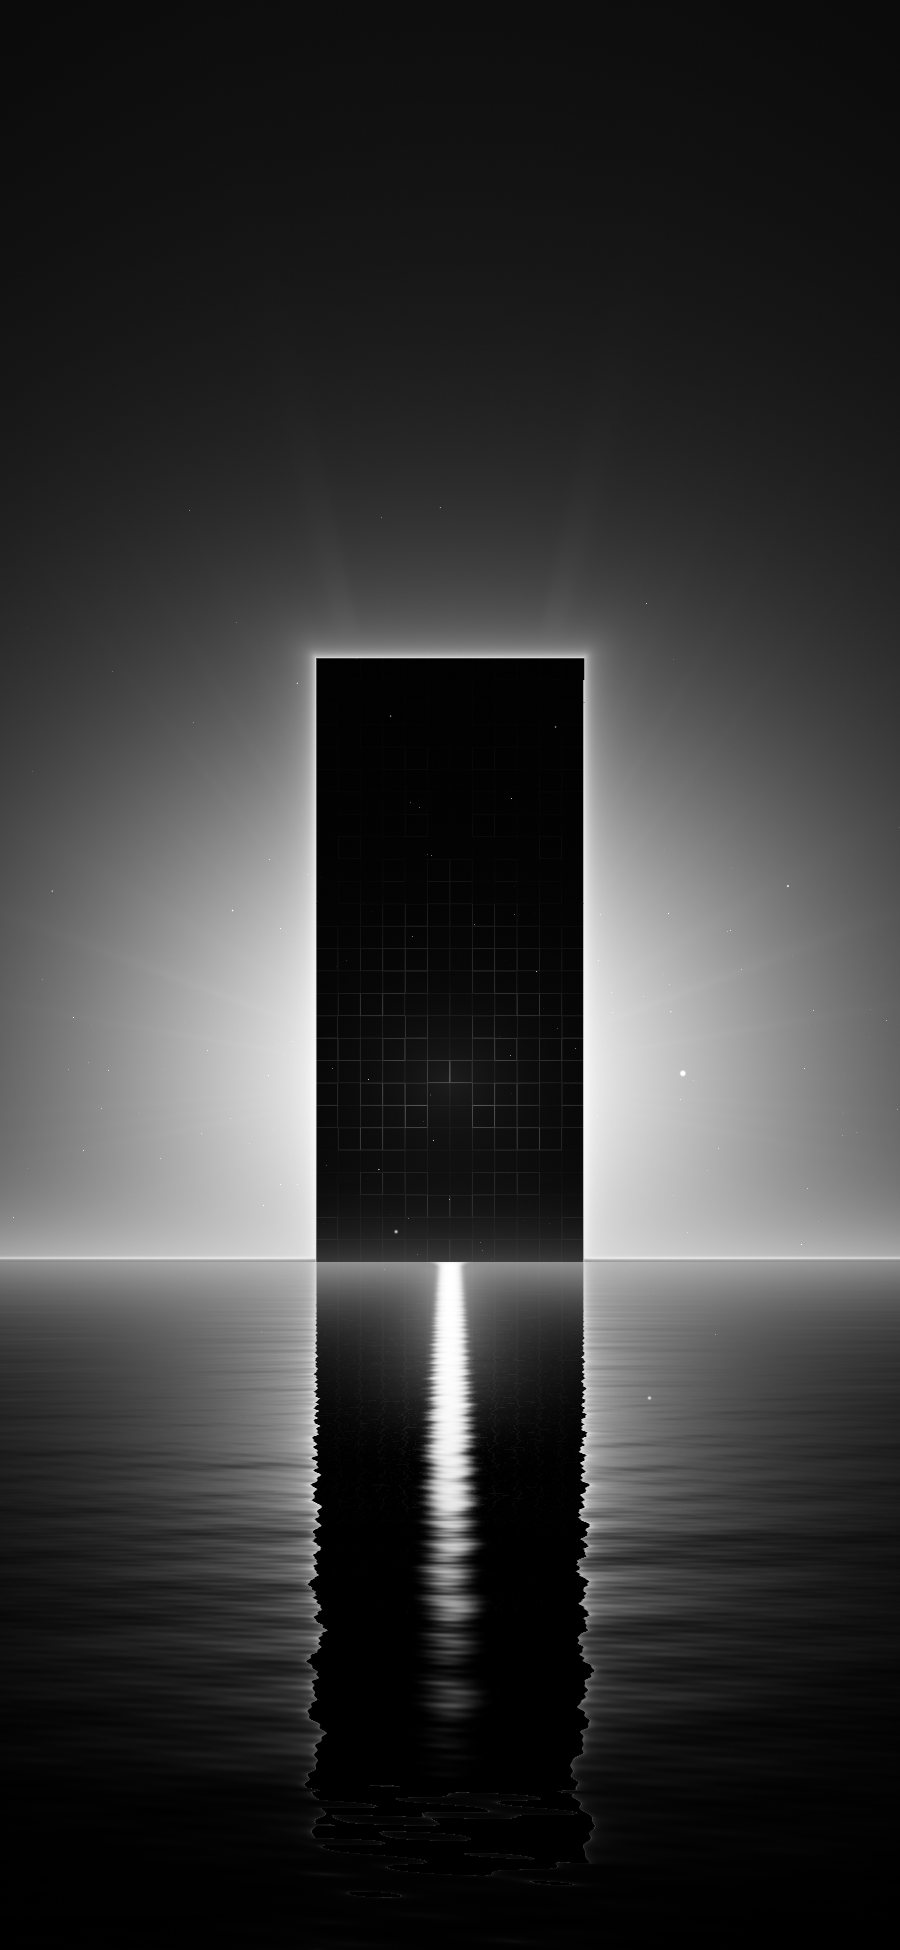
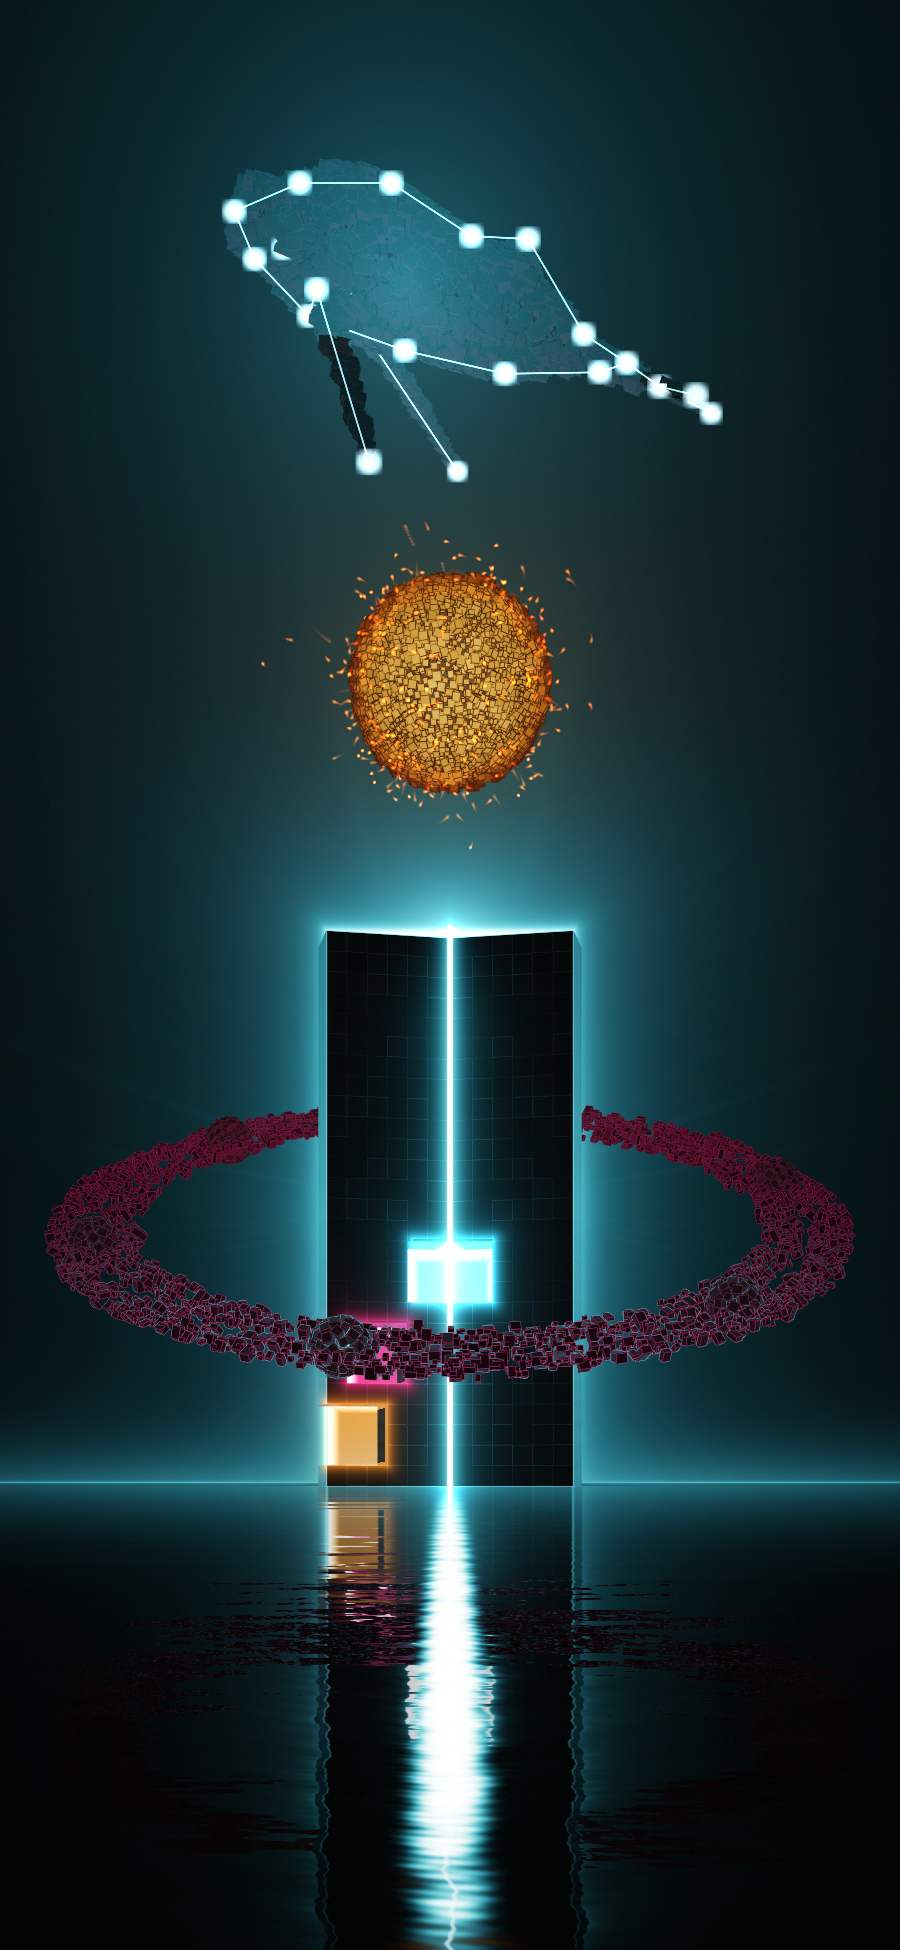
零肉身造物 v3（施工中）：七幕静态图兜底、键盘和读屏、竖屏排版、星座轮廓
- 没有 WebGL：七幕各一张场景自己截的静态图（电脑 1600×1000、手机 900×1950，scripts/genesis-stills.mjs 出）
- 看不见的幕只是透明、不接点击，照样能 Tab 到；Tab 到哪一幕的「进去」页面滚到哪一幕，Tab 到小月的名字滚到它转到正面那一刻
- section 只撑高度不接点击（右边刻度点得到了）
- 星座：沿鲸的轮廓（背、肚子、尾鳍、胸鳍、眼）亮星连线；钉成星座时身子是直的、侧身对人
- 竖屏：第四幕天更高（星座横在太阳上头），全家福往上挪，收工的字收紧；往下滑的提示放到那句话下面
- 地平线在门脚不再单独打亮（不和门缝拼成十字）；第七幕最后白光收暗到字看得清

Claude-Session: https://claude.ai/code/session_01KCV9xsxKjTEQuqVZM6Rweh

diff --git a/_zero/src/genesis/creations/whale.ts b/_zero/src/genesis/creations/whale.ts
@@ -21,12 +21,20 @@ function spot(portrait: boolean, halfW: number) {
   return { K: new Vector3(-Math.min(400, Math.max(300, halfW * 0.8)), 330, ZG + 40), dir: new Vector3(-0.88, 0.47, 0).normalize() };
 }
 
-// 关节（亮成星点的地方）：part、a、b、c（跟着色器里 whalePoint 的参数一样）
+// 关节（亮成星点的地方）：沿着鲸的轮廓（背一条、肚子一条、尾鳍、胸鳍、眼睛），从头到尾一颗一颗亮
+// 每颗：part、a、b、c（跟着色器里 whalePoint 的参数一样）
 const J: [number, number, number, number][] = [
-  [0, 0.0, 0, 1], [0, 0.14, 0, 0], [0, 0.42, 0, 0], [5, 0.64, 1, 0], [0, 0.9, 0, 0], [3, 0, 0, 0], [3, 1, 0, 0], [4, 1, 0, 0],
-  [0, 0.07, Math.PI, 0], [0, 0.42, Math.PI, 0], [1, 0, 0, 0], [1, 1, 0, 0], [2, 0, 0, 0], [2, 1, 0, 0], [0, 0.1, Math.PI / 2 + 0.35, 0],
+  [0, 0.0, 0, 1], [0, 0.12, 0.2, 0], [0, 0.32, 0, 0], [0, 0.52, 0, 0], [5, 0.64, 1, 0], [0, 0.82, 0, 0], [0, 0.93, 0, 0],
+  [3, 0, 0, 0], [3, 1, 0, 0], [4, 1, 0, 0],
+  [0, 0.07, Math.PI, 0], [0, 0.22, Math.PI, 0], [0, 0.45, Math.PI, 0], [0, 0.68, Math.PI, 0], [0, 0.88, Math.PI, 0],
+  [2, 0, 0, 0], [2, 1, 0, 0], [1, 0, 0, 0], [1, 1, 0, 0], [0, 0.1, Math.PI / 2 + 0.35, 0],
 ];
-const LINES: [number, number][] = [[0, 1], [1, 2], [2, 3], [3, 4], [4, 5], [5, 6], [5, 7], [0, 8], [8, 9], [9, 4], [10, 11], [12, 13], [8, 10], [8, 12]];
+const ORDER = [0, 1, 10, 19, 2, 11, 15, 17, 16, 18, 3, 12, 4, 13, 5, 14, 6, 7, 8, 9];
+const LINES: [number, number][] = [
+  [0, 1], [1, 2], [2, 3], [3, 4], [4, 5], [5, 6], [6, 7],
+  [0, 10], [10, 11], [11, 12], [12, 13], [13, 14], [14, 6],
+  [7, 8], [7, 9], [15, 16], [17, 18], [11, 15], [11, 17],
+];
 
 function bez(a: Vector3, b: Vector3, c: Vector3, d: Vector3, t: number, out = new Vector3()) {
   const s = 1 - t;
@@ -81,21 +89,21 @@ export function buildWhale(shared: U, stone: U) {
     uFront: { value: GATE.Z },
     uStar: { value: 0 },
     uLines: { value: 0 },
-    uJ: { value: Array.from({ length: 16 }, (_, i) => new Vector4(...(J[i] ?? [0, 0, 0, 0]))) },
+    uJ: { value: Array.from({ length: 24 }, (_, i) => new Vector4(...(J[i] ?? [0, 0, 0, 0]))) },
   };
   const mat = stoneMaterial(shared, stone, WHALE_FN + WHALE_PLACE, u);
   const body = blockMesh(mat, { aW: { data: W, size: 4 }, aSeed: { data: S, size: 4 } }, N);
 
   // 星点
   const sj = new Float32Array(J.length * 4), si = new Float32Array(J.length);
-  J.forEach((j, i) => { sj.set(j, i * 4); si[i] = i / J.length; });
+  J.forEach((j, i) => { sj.set(j, i * 4); si[i] = ORDER.indexOf(i) / J.length; });
   const smat = pointMaterial(shared, WHALE_FN + WHALE_STARS, { ...u, uPxScale: shared.uPxScale });
   const stars = pointCloud(smat, { aJ: { data: sj, size: 4 }, aIdx: { data: si, size: 1 } }, J.length);
-  stars.renderOrder = 6;
+  stars.renderOrder = 8;
   // 星座的线
   const lmat = lineMaterial(shared, WHALE_FN + WHALE_LINE, WHALE_LINE_COL, { ...u, uWidth: { value: 1.2 } });
   const lines = lineMesh(lmat, LINES.map(([a, b], i) => [a, 0, 0, i / LINES.length, b, 0, 0, 0]));
-  lines.renderOrder = 6;
+  lines.renderOrder = 8;
 
   const K = new Vector3(), dir = new Vector3(), B1 = new Vector3(), B2 = new Vector3(), F = new Vector3();
   const pivot = new Vector3(), moved = new Vector3(), tmp = new Vector3();
@@ -149,7 +157,7 @@ export function buildWhale(shared: U, stone: U) {
       u.uRoll.value = -0.5 * pin;
       u.uSwimT.value = f.reduced ? 0 : f.time;
       u.uGhost.value = sstep(0.86, 0.95, uu);
-      u.uStar.value = seg(uu, 0.85, 0.94);
+      u.uStar.value = seg(uu, 0.85, 0.93) * 1.12;
       u.uLines.value = seg(uu, 0.9, 0.98);
       // 造好以后退到半暗；第六幕被轨道接住时一起亮
       const dim = lerp(1, 0.38, sstep(1.02, 1.2, uu));

diff --git a/_zero/src/home/genesis-page.ts b/_zero/src/home/genesis-page.ts
@@ -5,7 +5,7 @@ import * as snd from './sound';
 import type { Genesis } from '../genesis/scene';
 import type { Tier } from '../genesis/config';
 import { FF_MS, INTRO_MS, SECTION_HEX, SMOOTH, ACT_HEX, NAME_AT } from '../genesis/config';
-import { clamp, easeInOut, horizonAt, pOfScroll, scrollOfP, seg, sstep, tanHalfAt, camDist } from '../genesis/timeline';
+import { clamp, easeInOut, horizonAt, pOfScroll, scrollOfP, seg, sstep, tanHalfAt, camDist, moonAt } from '../genesis/timeline';
 
 const root = document.documentElement;
 const gx = document.querySelector<HTMLElement>('[data-gx]')!;
@@ -120,7 +120,7 @@ function updateDom(p: number, s: number, pi: number) {
   const heroOut = 1 - sstep(0.02, 0.2, freeze != null ? (p > 1 ? 1 : 0) : s);
   const ho = heroIn * heroOut;
   setv(hero, '--hero', ho);
-  setv(hero, '--hero-v', ho > 0.002 ? 'visible' : 'hidden');
+  setv(hero, '--hero-pe', ho > 0.5 ? 'auto' : 'none');
   // 开场那两行代码
   setv(intro, "--intro-o", p < 1 ? sstep(0, 0.02, p) * (1 - sstep(0.34, 0.46, p)) : 0);
   setv(intro, '--c1', seg(p, 0.02, 0.12));
@@ -131,7 +131,6 @@ function updateDom(p: number, s: number, pi: number) {
     const k = i + 2, u = p - (k - 1);
     const o = sstep(0.04, 0.07, u) * (1 - sstep(1.0, 1.05, u));
     setv(el, '--o', o);
-    setv(el, '--v', o > 0.002 ? 'visible' : 'hidden');
     setv(el, '--cw', seg(u, 0.06, 0.18));
     setv(el, '--caret', u > 0.05 && u < 0.32 ? 1 : 0);
     const na = NAME_AT[k];
@@ -144,7 +143,6 @@ function updateDom(p: number, s: number, pi: number) {
   const u7 = p - 6;
   const fo = sstep(0.04, 0.08, u7);
   setv(fin, '--fo', fo);
-  setv(fin, '--fv', fo > 0.002 ? 'visible' : 'hidden');
   setv(fin, '--fc', seg(u7, 0.06, 0.1));
   setv(fin, '--fw', seg(u7, 0.86, 0.95));
   const fm = sstep(0.93, 1, u7);
@@ -209,7 +207,11 @@ goLinks.forEach((a) => {
   // 键盘：Tab 到这一幕的「进去」，页面跟着滚到这一幕
   a.addEventListener('focus', () => { if (currentAct(P) !== k) jump(k, false); });
 });
-moons.forEach((m) => m.addEventListener('focus', () => { if (currentAct(P) !== 3) jump(3, false); }));
+// Tab 到第 j 颗小月的名字：滚到它转到正面的那一刻（名字正好亮着）
+moons.forEach((m, j) => m.addEventListener('focus', () => {
+  const target = 2 + moonAt(j, moons.length);
+  if (Math.abs(P - target) > 0.02) window.scrollTo({ top: Math.round(scrollOfP(target) * vh), behavior: 'auto' });
+}));
 fin.querySelectorAll('a').forEach((a) => a.addEventListener('focus', () => { if (currentAct(P) !== 7) jump(7, false); }));
 entries.forEach((a) => a.addEventListener('focus', () => { if (P > 1.2) jump(1, false); }));
 
@@ -310,6 +312,14 @@ async function boot() {
   dpr: () => scene?.dpr ?? 0,
   setP: (x: number | null) => { freeze = x; },
   act: () => currentAct(P),
+  // 验收截图：「进去」的镜头停在半路（不跳转）
+  fly: (kind: 'gate' | 'creation', k: number, hold = 0.6) => {
+    const sc = scene as unknown as { enter?: (kind: string, k: number, onP: (s: number) => void, hold: number) => Promise<void> } | null;
+    gx.classList.add('entering');
+    const hex = kind === 'gate' ? SECTION_HEX[k] : SECTION_HEX[k - 2];
+    flood.style.setProperty('--flood', hex);
+    sc?.enter?.(kind, k, (s) => { flood.style.opacity = String(sstep(0.7, 1, s)); }, hold);
+  },
 };
 
 root.style.setProperty('--act-col', ACT_HEX[0]);

diff --git a/_zero/src/genesis/creations/ring.ts b/_zero/src/genesis/creations/ring.ts
@@ -1,7 +1,7 @@
 // Ⅲ 布环：环和六颗小月。小月从 src/data/tools.ts 的 shop 读，有几样工具就有几颗。
 import { Vector3 } from 'three';
 import { COUNTS, GATE, SECTION_HEX, TIERS, hexToLinear, type Tier } from '../config';
-import { sstep, seg, lerp } from '../timeline';
+import { sstep, seg, lerp, moonAt as moonAtTL } from '../timeline';
 import { RING_FN, RING_PLACE, MOON_PLACE } from '../glsl/ring';
 import { blockMesh, stoneMaterial, type Creation, type Frame, type U } from '../kit';
 import { rng, shuffle } from '../layout';
@@ -17,7 +17,7 @@ const TH0 = Math.PI / 12;
 const STEP = (Math.PI * 2) / n;
 const TH_MAX = TH0 + (n - 1) * STEP + TH0;
 /** 第 j 颗小月转到正面时，第三幕走到哪了 */
-export const moonAt = (j: number) => 0.46 + 0.49 * ((TH0 + j * STEP) / TH_MAX);
+export const moonAt = (j: number) => moonAtTL(j, n);
 const moonPh = (j: number) => FRONT - TH0 - j * STEP;
 
 function norm(c: [number, number, number]) { const m = Math.max(...c); return c.map((v) => v / m) as [number, number, number]; }
@@ -46,6 +46,7 @@ export function buildRing(shared: U, stone: U) {
     uTilt: { value: RING.tilt },
     uRingYaw: { value: 0 },
     uRingScale: { value: [1, 1] },
+    uRingS: { value: 1 },
     uMoonR: { value: RING.moonR },
     uFlash: { value: new Array(MAXM).fill(0) },
     uMoonPh: { value: Array.from({ length: MAXM }, (_, j) => moonPh(j)) },
@@ -77,6 +78,7 @@ export function buildRing(shared: U, stone: U) {
   /** 环上一点（跟着色器里 ringPoint 一样算） */
   function ringPoint(ph: number, rho: number, h: number, out: Vector3) {
     const sc = u.uRingScale.value as number[];
+    const S = u.uRingS.value as number;
     let x = Math.cos(ph) * rho, y = h, z = Math.sin(ph) * rho;
     // rotX(tilt)：前低后高
     const ct = Math.cos(RING.tilt), st = Math.sin(RING.tilt);
@@ -86,7 +88,7 @@ export function buildRing(shared: U, stone: U) {
     const yaw = u.uRingYaw.value as number;
     const cy = Math.cos(yaw), sy = Math.sin(yaw);
     const x3 = x * cy + z * sy, z3 = -x * sy + z * cy;
-    out.set(x3 * sc[0], y, z3 * sc[1]).add(u.uRingC.value as Vector3);
+    out.set(x3 * sc[0] * S, y * S, z3 * sc[1] * S).add(u.uRingC.value as Vector3);
     return out;
   }
 
@@ -119,9 +121,8 @@ export function buildRing(shared: U, stone: U) {
       if (pw > 0) {
         portraitPos(1, P, f.portrait, RING.c, tmp);
         (u.uRingC.value as Vector3).copy(tmp);
-        const sc = lerp(1, PORTRAIT_SCALE[1], pw) * (f.portrait ? 0.8 : 1);
-        u.uRingScale.value = [sc, sc];
       } else (u.uRingC.value as Vector3).copy(RING.c);
+      u.uRingS.value = lerp(1, PORTRAIT_SCALE[1], pw);
       const dim = lerp(1, 0.32, sstep(1.02, 1.22, uu));
       const bright = lerp(dim, 1, sstep(5.38, 5.52, P));
       u.uBright.value = bright;

diff --git a/_zero/src/genesis/glsl/whale.ts b/_zero/src/genesis/glsl/whale.ts
@@ -52,6 +52,11 @@ vec3 moved(vec3 p) {
   q = rotY(uMoveYaw) * q * uMoveS;
   return uPivot + uMoveT + q;
 }
+// 星和线往镜头那边挪出鲸的身子（石头身子挡不住星座；门照样挡得住）
+vec3 outFront(vec3 p) {
+  vec3 cam = uMirror < 0. ? vec3(uCamPos.x, -uCamPos.y, uCamPos.z) : uCamPos;
+  return p + normalize(cam - p) * .14 * uWL * uMoveS;
+}
 
 // 身子上第 s 截（0 头 … 1 尾）的位置和朝向
 void bodyFrame(float s, out vec3 pos, out vec3 F, out vec3 U, out vec3 Sd) {
@@ -144,7 +149,7 @@ bool place(inout vec3 c, inout vec3 s, inout mat3 R, inout vec4 m, inout vec3 ti
   ex = vec2(-1., aSeed.z);
   tint = uLifeCol;
   float fresh = 1. - sat((arc - 133.5) / 90.);
-  m = vec4((.2 + 1.2 * fresh) * (1. - .8 * uGhost), .002 + .25 * fresh, 1.5 * (1. - .6 * uGhost), uBright * (1. - .5 * uGhost));
+  m = vec4((.2 + 1.2 * fresh) * (1. - .55 * uGhost), .002 + .25 * fresh + .03 * uGhost, 1.5 * (1. - .5 * uGhost), uBright);
   vBev = .5;
   return true;
 }
@@ -161,7 +166,7 @@ bool placePt(inout vec3 p, inout float size, inout vec3 col, inout float soft) {
   float on = sat((uStar - aIdx) * 14.);
   if (on <= 0.) return false;
   vec3 nrm;
-  p = moved(whalePoint(aJ.x, aJ.y, aJ.z, aJ.w, uSwimT, nrm));
+  p = outFront(moved(whalePoint(aJ.x, aJ.y, aJ.z, aJ.w, uSwimT, nrm)));
   float pop = 1. + 1.6 * (1. - on) * on * 4.;
   size = 10. * pop * uMoveS;
   col = glowCol(3.2 * on * uBright, mix(uLifeCol, vec3(1.), .5));
@@ -172,15 +177,15 @@ bool placePt(inout vec3 p, inout float size, inout vec3 col, inout float soft) {
 
 /** 星座的线：星点之间拉出细线（每段两头是第几颗星：uJ 里查它长在鲸身上哪儿） */
 export const WHALE_LINE = /* glsl */ `
-uniform vec4 uJ[16];
+uniform vec4 uJ[24];
 uniform float uLines;     // 线拉到哪了（0..1）
 void placeLine(inout vec3 a, inout vec3 b, inout float sa, inout float sb) {
   int i = int(a.x + .5), j = int(b.x + .5);
   float order = sa;
   vec4 A = uJ[i], B = uJ[j];
   vec3 n1, n2;
-  vec3 pa = moved(whalePoint(A.x, A.y, A.z, A.w, uSwimT, n1));
-  vec3 pb = moved(whalePoint(B.x, B.y, B.z, B.w, uSwimT, n2));
+  vec3 pa = outFront(moved(whalePoint(A.x, A.y, A.z, A.w, uSwimT, n1)));
+  vec3 pb = outFront(moved(whalePoint(B.x, B.y, B.z, B.w, uSwimT, n2)));
   float k = sat((uLines - order * .6) / .4);
   a = pa;
   b = mix(pa, pb, max(k, 1e-3));

diff --git a/_zero/src/genesis/glsl/ring.ts b/_zero/src/genesis/glsl/ring.ts
@@ -6,14 +6,15 @@ export const RING_FN = /* glsl */ `
 uniform vec3 uRingC;      // 环心
 uniform float uTilt;      // 环面倾角（前低后高）
 uniform float uRingYaw;   // 第六幕：环被接住以后慢慢偏转
-uniform vec2 uRingScale;  // 竖屏：环收窄一点（x 方向）
+uniform vec2 uRingScale;  // 竖屏：环收窄一点（x、z 方向）
+uniform float uRingS;     // 第七幕全家福：整个环缩小
 vec3 ringPoint(float ph, float rho, float h) {
   vec3 p = vec3(cos(ph) * rho, h, sin(ph) * rho);
   p = rotX(uTilt) * p;
   p = rotY(uRingYaw) * p;
   p.x *= uRingScale.x;
   p.z *= uRingScale.y;
-  return uRingC + p;
+  return uRingC + p * uRingS;
 }
 vec3 ringTangent(float ph) {
   vec3 t = vec3(-sin(ph), 0., cos(ph));
@@ -43,7 +44,7 @@ bool place(inout vec3 c, inout vec3 s, inout mat3 R, inout vec4 m, inout vec3 ti
   if (u < e - FALL) return false;
   float rho = aRing.y, hh = aRing.z;
   vec3 tang;
-  float sz = uSize * mix(.55, 1.25, aSeed.x * aSeed.x) * uRingScale.x;
+  float sz = uSize * mix(.55, 1.25, aSeed.x * aSeed.x) * uRingS;
   s = vec3(sz * mix(.8, 1.6, aSeed.y), sz * mix(.5, .9, aSeed.z), sz);
   float moving = 0.;
   if (u < e) {
@@ -100,10 +101,10 @@ bool place(inout vec3 c, inout vec3 s, inout mat3 R, inout vec4 m, inout vec3 ti
   float k = sstep(arrive, arrive + .08, u);
   vec3 cen = ringPoint(FRONT + min(V_FLOW * max(u - (arrive - .05), 0.), D) + uRot, 193., 0.);
   vec3 dir = normalize(aMoon.yzw);
-  float r = uMoonR * mix(2.2, 1., k) * uRingScale.x;
+  float r = uMoonR * mix(2.2, 1., k) * uRingS;
   c = cen + dir * r * mix(.6 + .8 * aSeed.x, 1., k);
   R = lookDir(dir) * rotZ(aSeed.y * 6.);
-  float sz = uMoonR * .42 * mix(.7, 1.1, aSeed.z) * uRingScale.x;
+  float sz = uMoonR * .42 * mix(.7, 1.1, aSeed.z) * uRingS;
   s = vec3(sz);
   ex = vec2(-1., aSeed.w);
   tint = mix(uRingCol, vec3(1.), .15);

diff --git a/_zero/src/genesis/scene.ts b/_zero/src/genesis/scene.ts
@@ -82,6 +82,7 @@ export function createGenesis(opts: GenesisOpts) {
     uGridCol: { value: new Vector3(...ACT_COLS[5]) },
     uShock: { value: new Vector4() },
     uSrcBack: { value: SRC_BACK },
+    uSrcI: { value: 1 },
   };
   const worldMat = new ShaderMaterial({
     uniforms: { ...U, ...S, ...W },
@@ -181,6 +182,11 @@ export function createGenesis(opts: GenesisOpts) {
     const bw = Math.round(w * dpr), bh = Math.round(h * dpr);
     W.uRes.value = [bw, bh];
     px.uView.value = [bw, bh];
+    // 细线按屏幕像素算宽：系统缩放 125–175% 时也是同样粗细，不断
+    scene.traverse((o) => {
+      const m = (o as Mesh).material as ShaderMaterial | undefined;
+      if (m && m.uniforms && m.uniforms.uWidth) m.uniforms.uWidth.value = (m.userData.w ?? (m.userData.w = m.uniforms.uWidth.value)) * Math.max(1, dpr * 0.85);
+    });
     const rs = tier === 'high' ? 0.5 : 0.4;
     rt.setSize(Math.max(2, Math.round(bw * rs)), Math.max(2, Math.round(bh * rs)));
     U.uPortrait.value = portrait ? 1 : 0;
@@ -326,6 +332,7 @@ export function createGenesis(opts: GenesisOpts) {
     // —— Ⅶ 收工：两扇门完全推开，五种颜色收回来合成白光；日、环、鲸、器全成了白光里的剪影；白光再慢慢收暗 ——
     U.uWhite.value = sstep(6.6, 6.82, P) * (1 - sstep(6.86, 7, P));
     U.uSil.value = sstep(6.56, 6.8, P);
+    W.uSrcI.value = 1 - 0.86 * sstep(6.86, 7, P);
 
     // —— 门上的五撮：哪一幕开始，哪一撮松动、离开，留下一个透光的缺口（缺口里是那一幕的颜色） ——
     const rects = windowRects(door);

diff --git a/_zero/src/genesis/glsl/world.ts b/_zero/src/genesis/glsl/world.ts
@@ -31,6 +31,7 @@ uniform float uGrid;         // 第六幕：水上浮出的光格网
 uniform vec3 uGridCol;
 uniform vec4 uShock;         // 第五幕冲击波：中心 x、中心 z、半径、强度
 uniform float uSrcBack;
+uniform float uSrcI;         // 门后光源本身多亮（第七幕最后白光收暗时一起暗）
 varying vec2 vNdc;
 
 // 方向决定的天：头顶几乎全黑，地平线那一圈略亮，正前方（门那边）再亮一点
@@ -88,7 +89,7 @@ vec3 gateLight(vec3 ro, vec3 rd, out float inside) {
     }
     vec3 c = mix(uActCol, wc, wmask);
     float L = mix(core, wl, wmask);
-    vec3 src = glowCol(L * uLight, c) + uWhite * vec3(6.);
+    vec3 src = (glowCol(L * uLight, c) + uWhite * vec3(6.)) * uSrcI;
     // 贴着轮廓那一两个像素别给它（多重采样时会从边上漏出一条亮线）
     return mix(outside, src, smoothstep(.5, 1.8, -d0));
   }

diff --git a/_zero/src/genesis/creations/law.ts b/_zero/src/genesis/creations/law.ts
@@ -59,7 +59,7 @@ export function portraitPos(i: number, P: number, portrait: boolean, cur: Vector
   const z = GATE.Z + 12;
   const spots = portrait
     ? [new Vector3(-19, 90, z), new Vector3(0, 68, z), new Vector3(0, 114, z), new Vector3(19, 90, z)]
-    : [new Vector3(-27, 45, z), new Vector3(0, 22, z), new Vector3(0, 70, z), new Vector3(27, 45, z)];
+    : [new Vector3(-23, 51, z), new Vector3(0, 33, z), new Vector3(0, 73, z), new Vector3(23, 51, z)];
   // 先往上、往门洞那边收，再落到自己的位置（不从镜头前面横穿过去）
   const p = spots[i];
   const mid = new Vector3().lerpVectors(cur, p, 0.5);

diff --git a/_zero/src/genesis/timeline.ts b/_zero/src/genesis/timeline.ts
@@ -90,3 +90,10 @@ export function tanHalfAt(P: number, aspect: number, hz: number): number {
   // 第七幕：走到门槛前，视角放开一些（站在门洞跟前），门越走越高、顶到天外
   return need(6) * (1 + 0.62 * sstep(6.3, 7, P));
 }
+
+/** 第三幕：第 j 颗小月（共 n 颗）转到正面时，幕内进度走到哪了 */
+export function moonAt(j: number, n: number): number {
+  const TH0 = Math.PI / 12, STEP = (Math.PI * 2) / n;
+  const TH_MAX = TH0 + (n - 1) * STEP + TH0;
+  return 0.46 + 0.49 * ((TH0 + j * STEP) / TH_MAX);
+}
